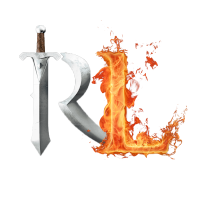
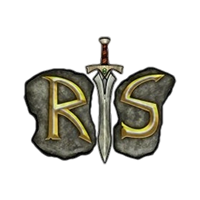
Dev Mode and Branding
- Added Dev Mode
- Added Branding

diff --git a/src/main/java/net/runelite/client/RuneLite.java b/src/main/java/net/runelite/client/RuneLite.java
@@ -55,8 +55,7 @@ import javax.net.ssl.TrustManager;
 import javax.net.ssl.X509TrustManager;
 import javax.swing.SwingUtilities;
 
-import io.sentry.Sentry;
-import io.sentry.protocol.User;
+import com.runescape.cache.assets.AssetLoader;
 import joptsimple.ArgumentAcceptingOptionSpec;
 import joptsimple.OptionParser;
 import joptsimple.OptionSet;
@@ -92,7 +91,7 @@ import org.slf4j.LoggerFactory;
 @Slf4j
 public class RuneLite
 {
-	public static final File RUNELITE_DIR = new File(System.getProperty("user.home"), "." + "Elvarg");
+	public static final File RUNELITE_DIR = new File(System.getProperty("user.home"), "." + "ElvargPlus");
 	public static final File CACHE_DIR = new File(RUNELITE_DIR, "cache");
 	public static final File PLUGINS_DIR = new File(RUNELITE_DIR, "plugins");
 	public static final File PROFILES_DIR = new File(RUNELITE_DIR, "profiles");
@@ -101,7 +100,7 @@ public class RuneLite
 	public static final File DEFAULT_SESSION_FILE = new File(RUNELITE_DIR, "session");
 	public static final File DEFAULT_CONFIG_FILE = new File(RUNELITE_DIR, "settings.properties");
 
-	public static boolean devMode = true;
+	public static boolean devMode = false;
 	private static final int MAX_OKHTTP_CACHE_SIZE = 20 * 1024 * 1024; // 20mb
 	public static String USER_AGENT = "RuneLite/" + RuneLiteProperties.getVersion() + "-" + RuneLiteProperties.getCommit() + (RuneLiteProperties.isDirty() ? "+" : "");
 
@@ -246,6 +245,8 @@ public class RuneLite
 							.open());
 					return;
 				}
+				devMode = true;
+				AssetLoader.INSTANCE.initCache();
 			}
 
 			PROFILES_DIR.mkdirs();

diff --git a/src/main/java/com/runescape/sign/SignLink.java b/src/main/java/com/runescape/sign/SignLink.java
@@ -6,7 +6,11 @@ import java.awt.Toolkit;
 import java.io.File;
 import java.io.RandomAccessFile;
 
+import com.google.inject.Inject;
+import com.google.inject.name.Named;
 import com.runescape.Configuration;
+import com.runescape.cache.assets.AssetLoader;
+import net.runelite.client.RuneLite;
 
 public final class SignLink {
 
@@ -93,11 +97,12 @@ public final class SignLink {
         return s.length() == 0 ? null : s;
     }
 
+
     public static String findcachedir() {
-        final File cacheDirectory = new File(Configuration.CACHE_DIRECTORY);
-        if (!cacheDirectory.exists())
-            cacheDirectory.mkdir();
-        return Configuration.CACHE_DIRECTORY;
+        if(!RuneLite.CACHE_DIR.exists()) {
+            RuneLite.CACHE_DIR.mkdirs();
+        }
+        return RuneLite.devMode ? AssetLoader.INSTANCE.getCache().getAbsolutePath() + "/" : RuneLite.CACHE_DIR.getAbsolutePath();
     }
     
     public static String indexLocation(int cacheIndex, int index) {

diff --git a/src/main/java/com/runescape/Configuration.java b/src/main/java/com/runescape/Configuration.java
@@ -7,11 +7,8 @@ package com.runescape;
  */
 public final class Configuration {
 
-    public static final int UPDATE_SERVER_PORT = 43580;
-    public static final int CACHE_VERSION = 2;
-    public static final int UPDATE_SERVER_VERSION = 1;
     public static final int UID = 8784521;
-    public static final String CACHE_DIRECTORY = "./Cache/"; //System.getProperty("user.home") + File.separator + "OSRSPKV"+CLIENT_VERSION+"/";
+
     /**
      * Toggles a security feature called RSA to prevent packet sniffers
      */
